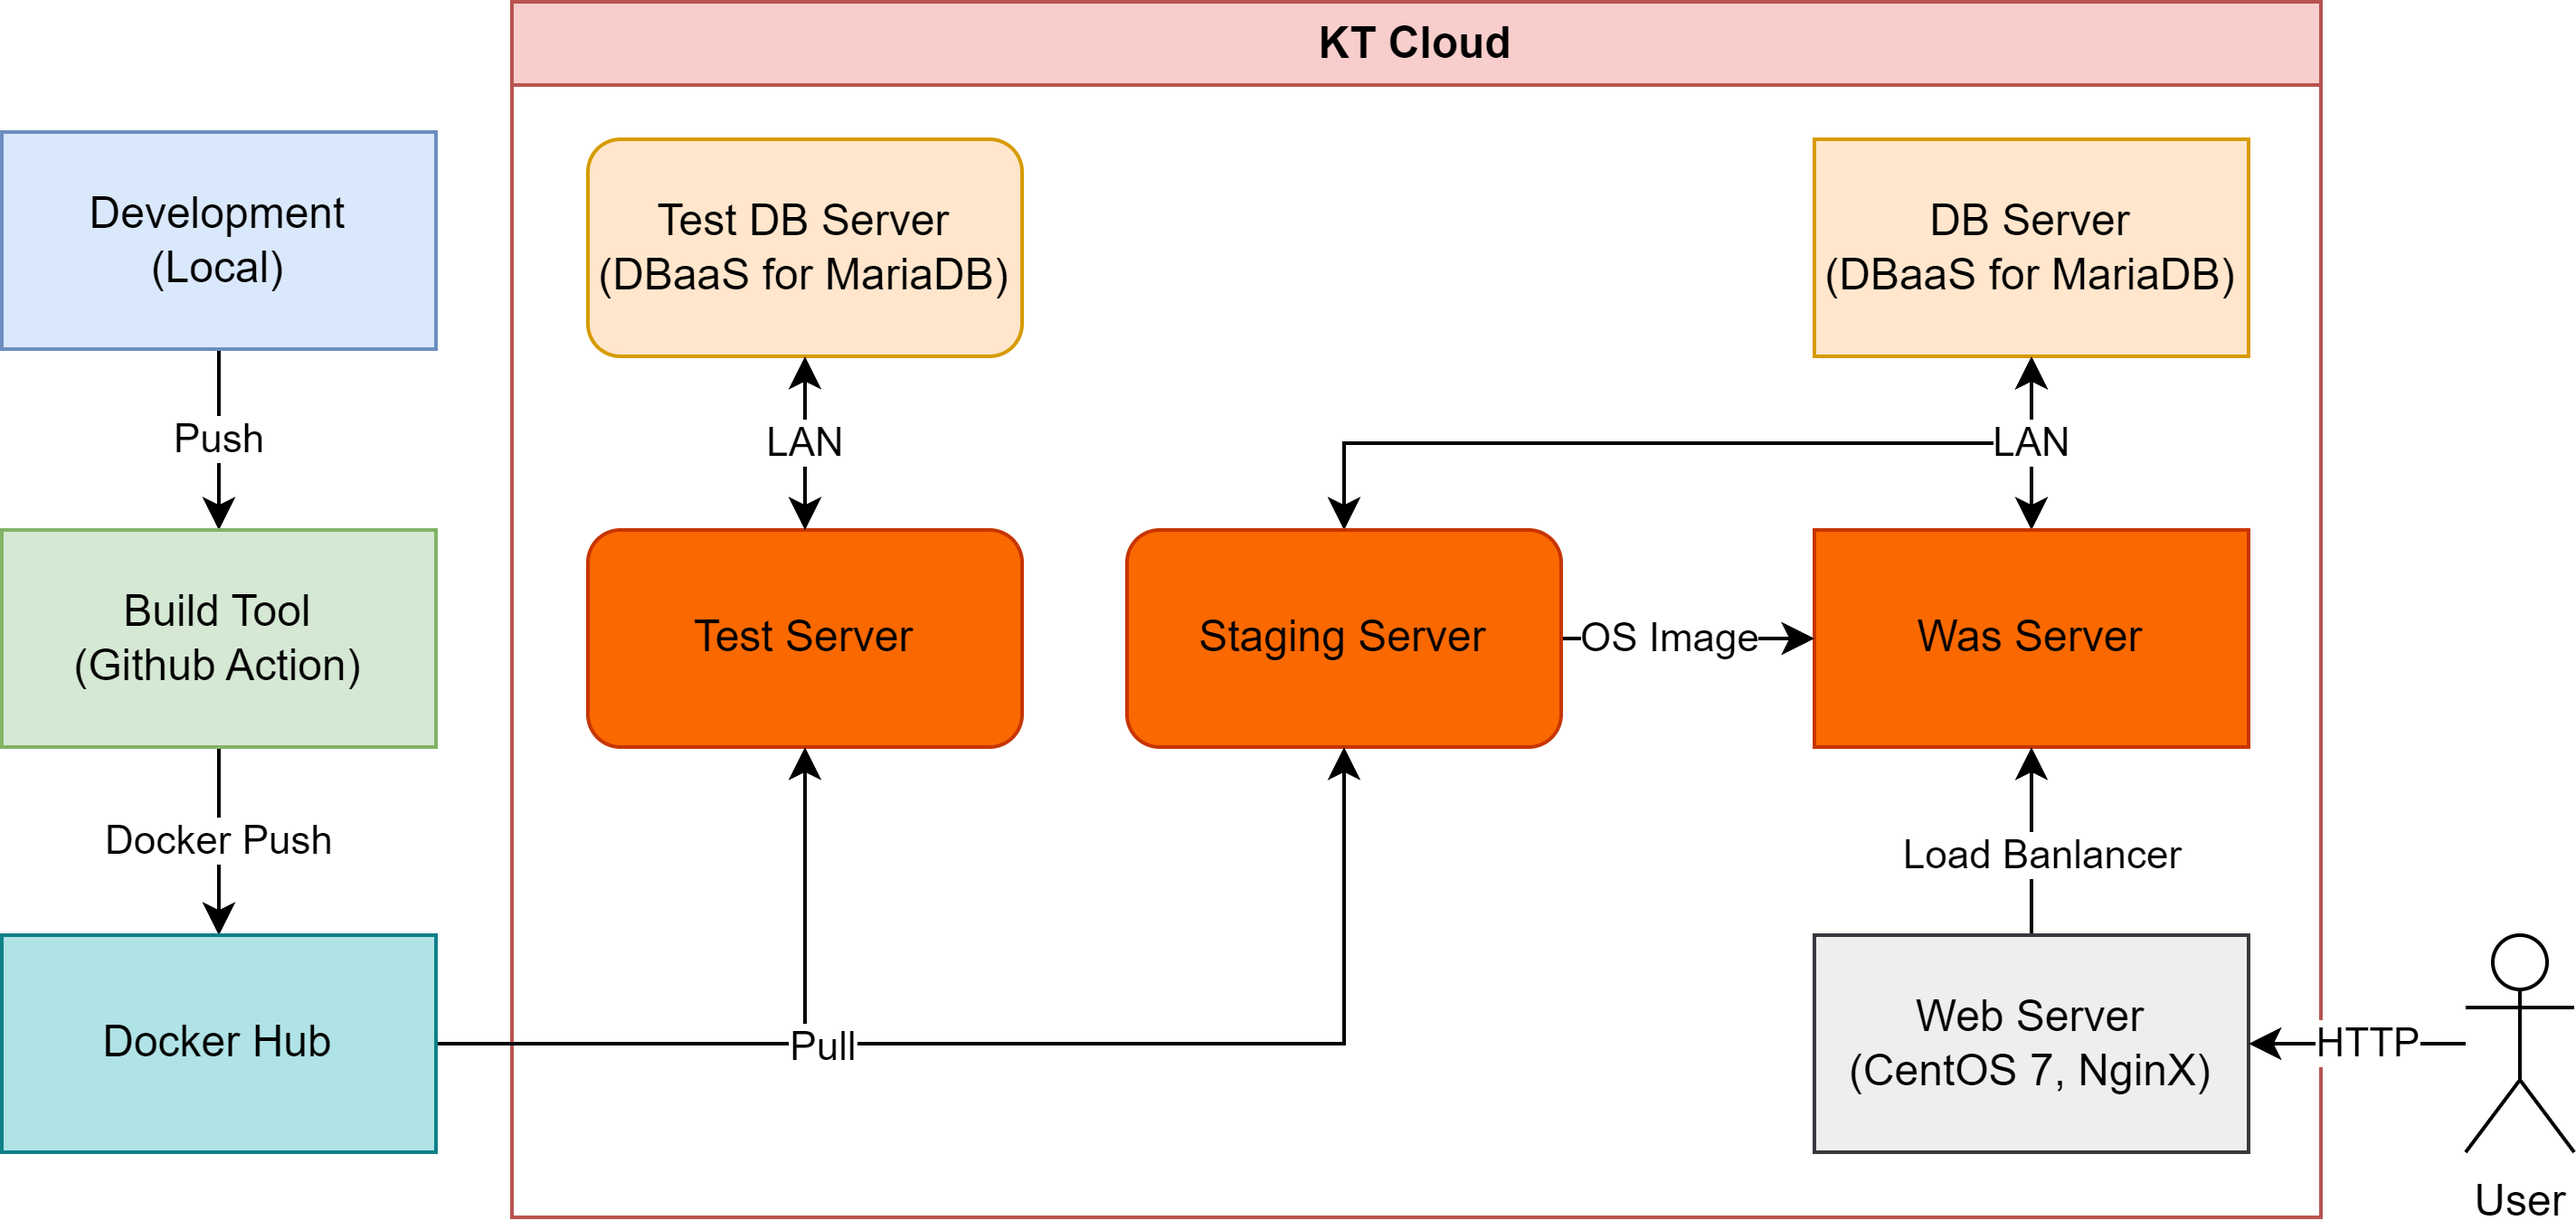
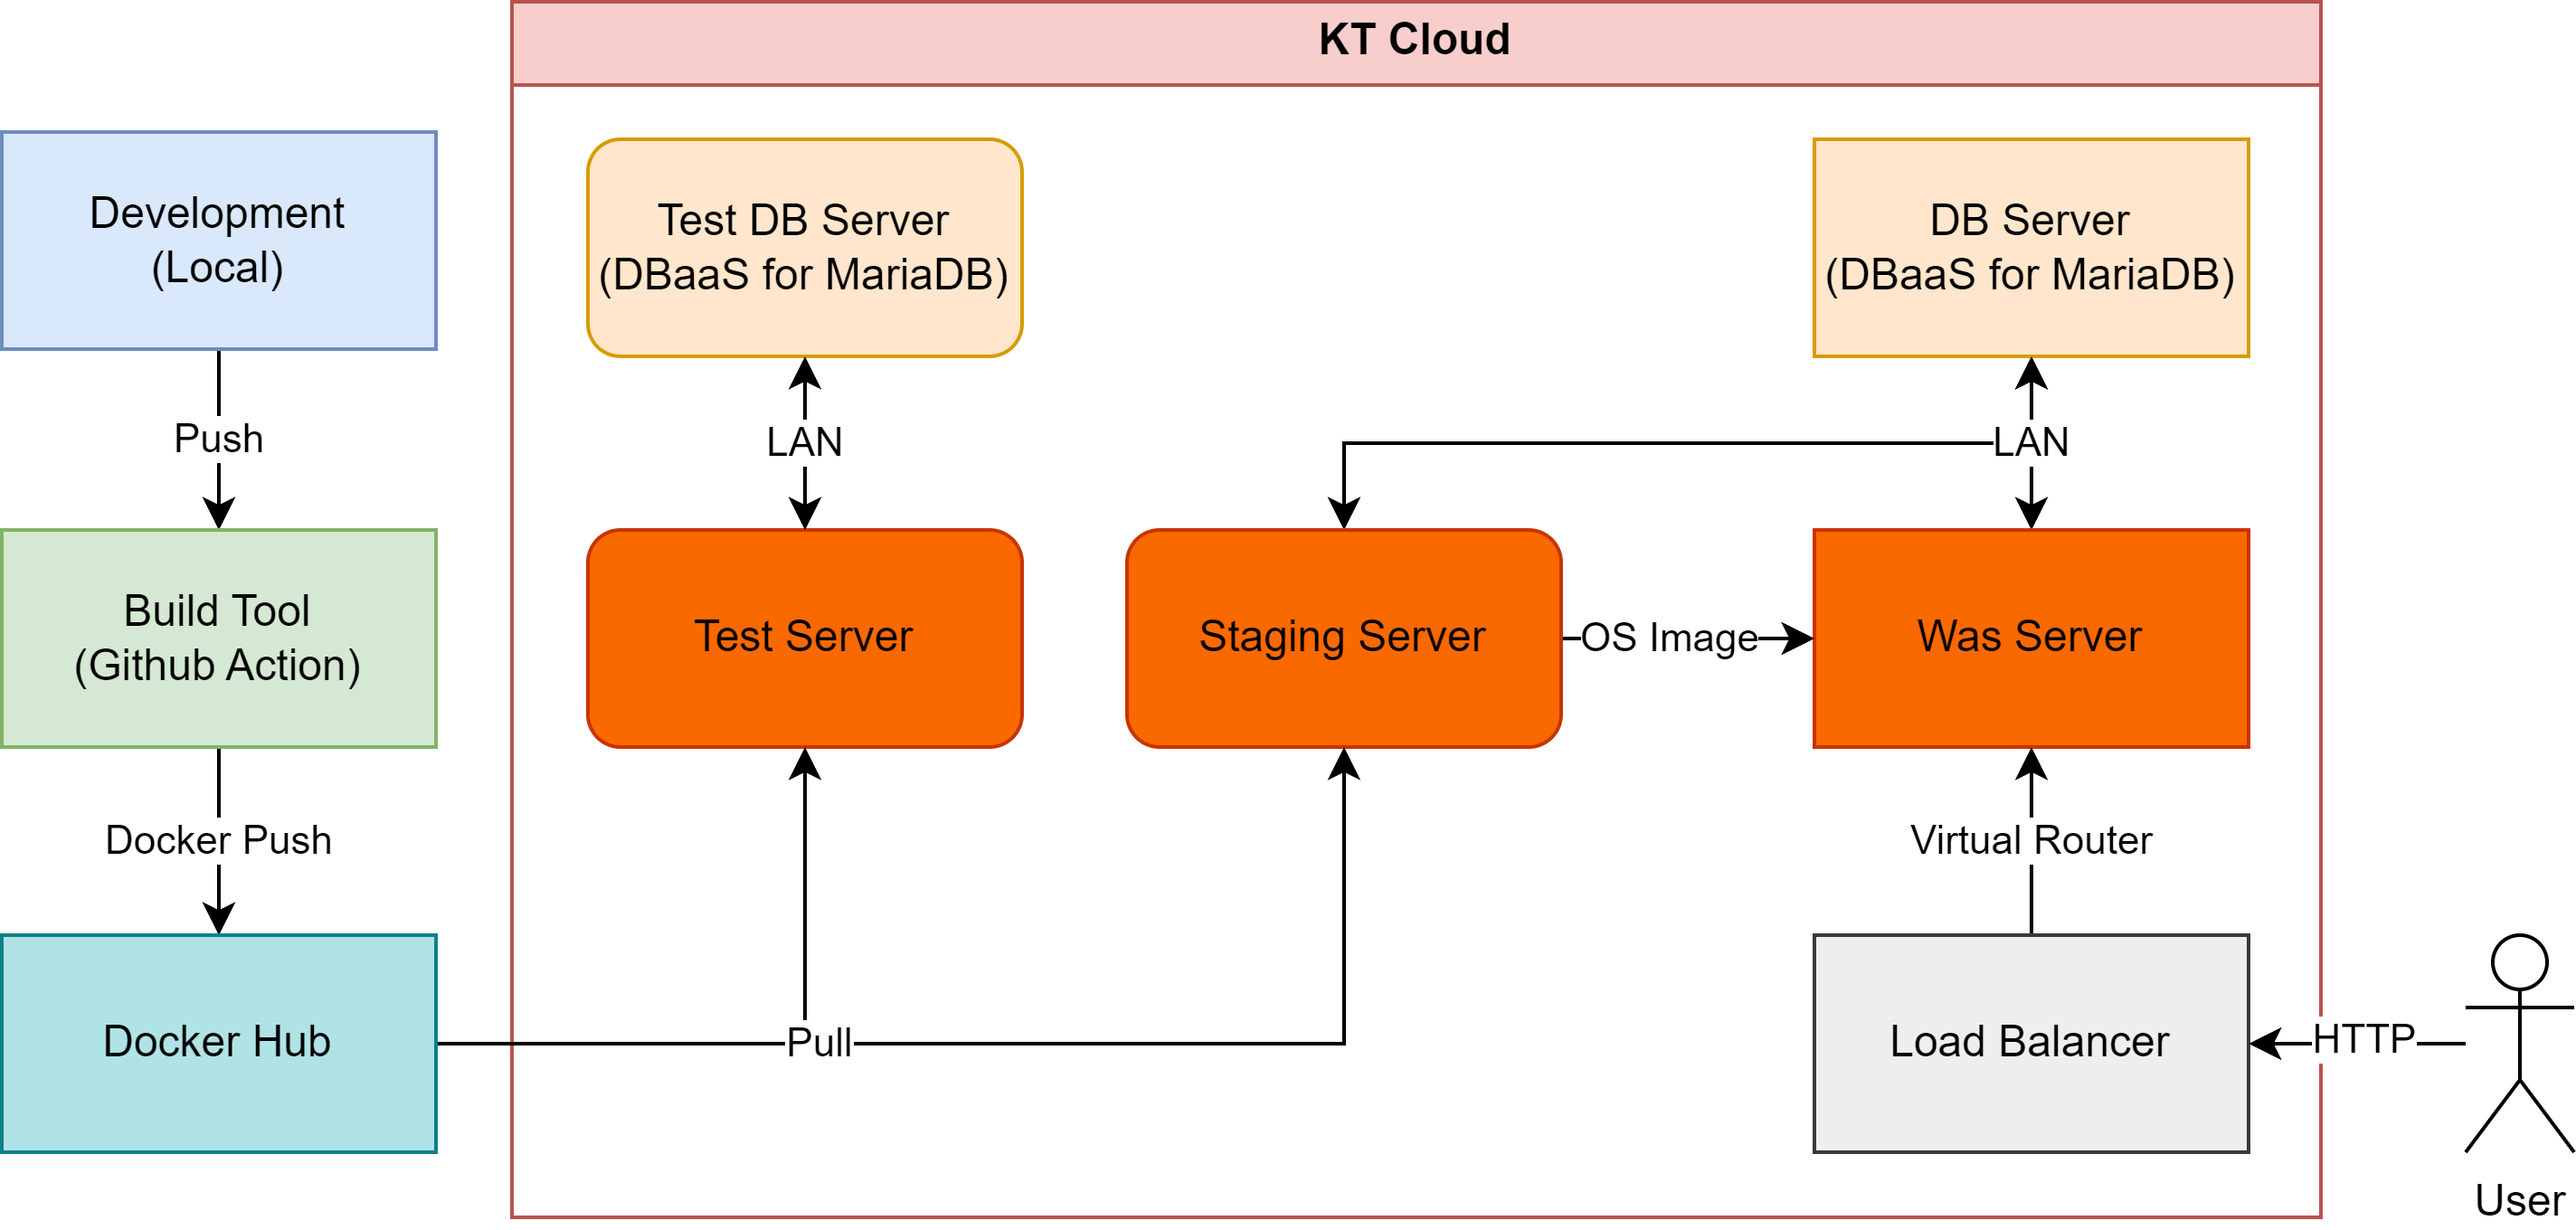
설명 수정

diff --git a/README.md b/README.md
@@ -65,7 +65,7 @@
 - Branch에 push되면 Github Action 과 Docker Hub를 통하여 Test 서버와 Staging 서버에 배포됨
   - Test 서버에서는 실제 환경과 분리된 DB 서버와 연결되어 독자적으로 테스트함
   - Staging 서버에서는 실제 환경의 DB와 연결되어 기존의 서버와 연결되어 돌아갈 수 있는지 확인함.
-- 3 Tier 아키텍처(Web, WAS, DB)를 구성하여 안정적인 서비스를 제공하려 함
+- 외부에서 로드 밸런서의 IP로만 접근이 가능하게 하여 IP 노출을 최소로 함
 - KT 클라우드의 로드 밸런서와 오토 스캐일링을 활용하여 분산처리를 진행함
 
 ### 배포 자동화 파이프라인
